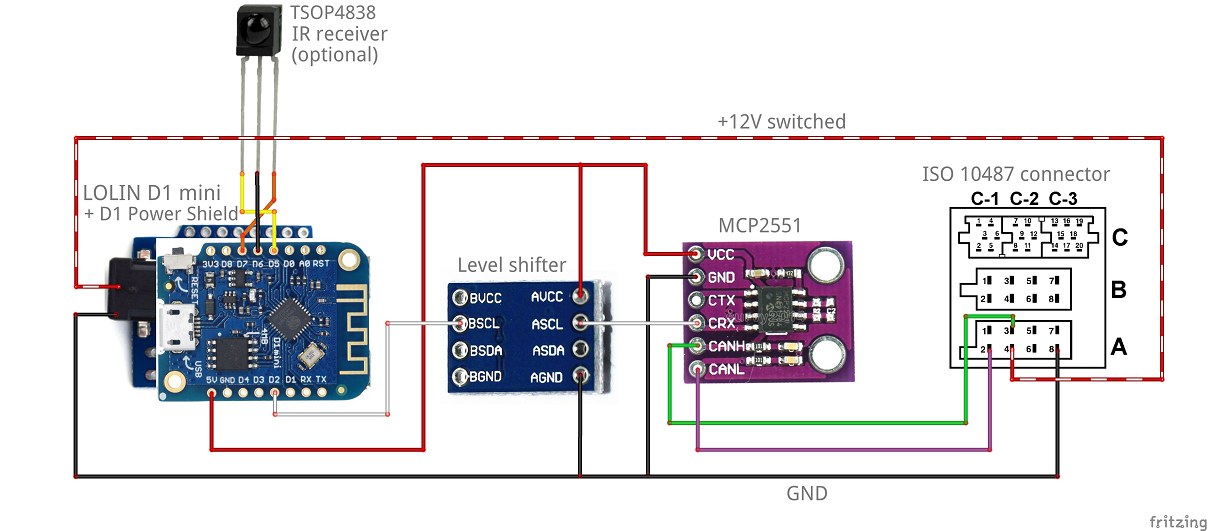
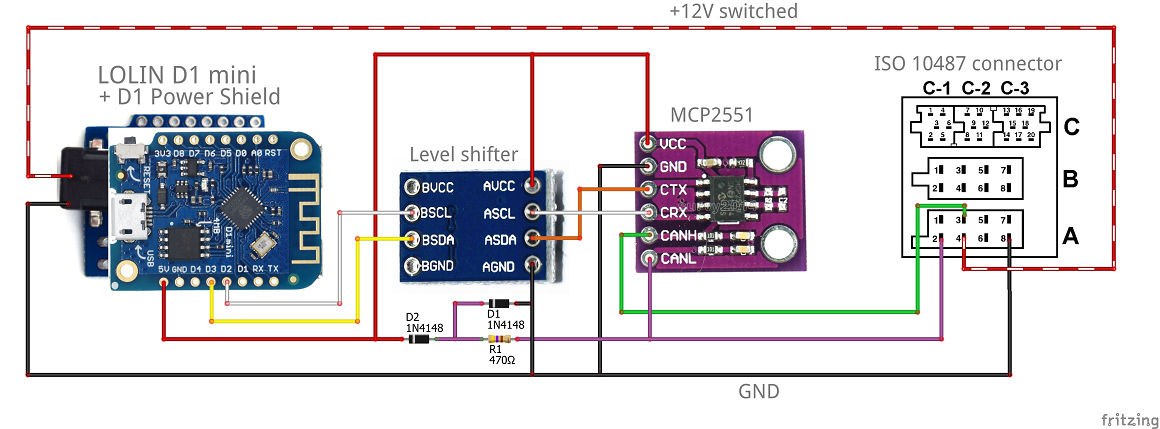
Added clamping circuit to schematics: seems to reduce amount of bit errors

diff --git a/README.md b/README.md
@@ -46,8 +46,9 @@ There are various possibilities to hook up a ESP8266 based board to your vehicle
 
 ![schema](extras/schematics/Schematic%20using%20MCP2551_bb.png)
 
-> 👉 Note: CANH of the transceiver is connected to VAN BAR (DATA B), CANL to VAN (DATA). This may seem illogical
+> 👉 Note 1: CANH of the transceiver is connected to VAN BAR (DATA B), CANL to VAN (DATA). This may seem illogical
      but in practice it turns out this works best.
+> 👉 Note 2: The clamping circuit (D1, D2, R1) seems to help in reducing the amount of bit errors (CRC errors).
 
 2. Use a [SN65HVD230] transceiver, connected with its CANH and CANL pins to the vehicle's VAN bus.
    The SN65HVD230 transceiver already has 3.3V logic, so it is possible to directly connect the CRX / RXD / R pin of
@@ -59,8 +60,9 @@ There are various possibilities to hook up a ESP8266 based board to your vehicle
 
 ![schema](extras/schematics/Schematic%20using%20SN65HVD230_bb.png)
    
-> 👉 Note: CANH of the transceiver is connected to VAN BAR (DATA B), CANL to VAN (DATA). This may seem illogical
+> 👉 Note 1: CANH of the transceiver is connected to VAN BAR (DATA B), CANL to VAN (DATA). This may seem illogical
      but in practice it turns out this works best.
+> 👉 Note 2: The clamping circuit (D1, D2, R1) seems to help in reducing the amount of bit errors (CRC errors).
 
 3. The simplest schematic is not to use a transceiver at all, but connect the VAN DATA line to GrouND using
    two 4.7 kOhm resistors. Connect the GPIO pin of your ESP8266 board to the 1:2 [voltage divider] that is thus
